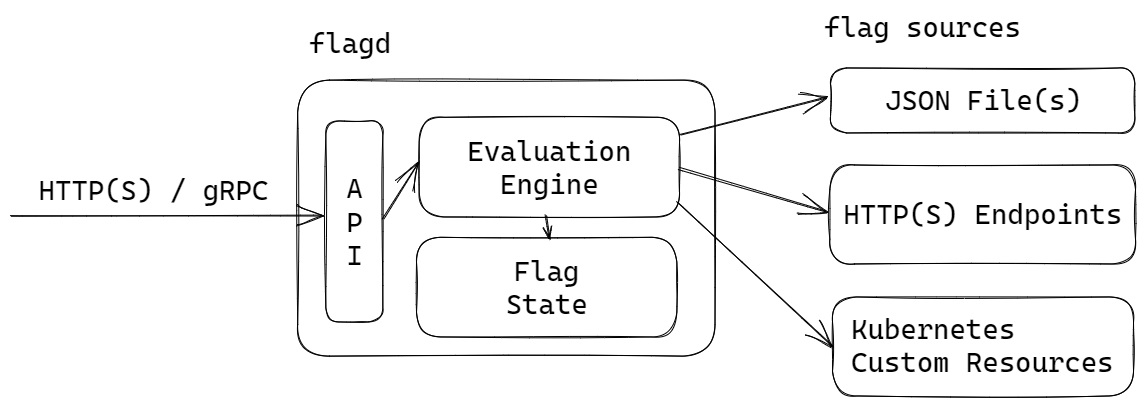
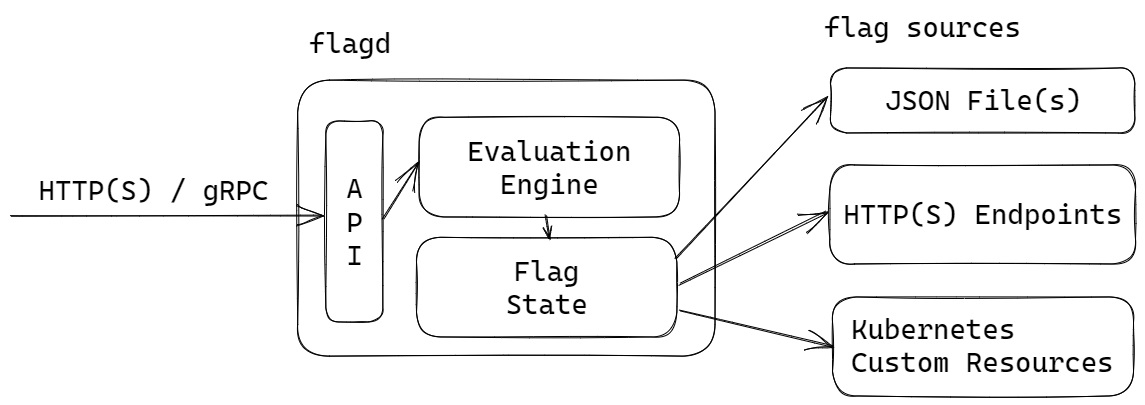
update logical arch diagram and readme

diff --git a/README.md b/README.md
@@ -28,10 +28,9 @@ flagd:
 
 - 🌐 OpenFeature compliant and [speaks your language](docs/usage/flagd_providers.md).
 - 🆕 Easy to [extend to new languages](docs/other_resources/creating_providers.md).
-- 👍 Reads feature flags from multiple sources. `files`, `http(s)`, `gRPC` and `Kubernetes Custom Resources` can be used simultaneously.
 - 🔄 Centralized flag management. Use multiple flag sources and vendors. [Flag values are automatically merged](docs/configuration/flag_configuration_merging.md).
 - 🕒 Feature Flag updates occur in near-realtime (HTTP) or realtime (gRPC)
-- 💪 Contains a [powerful and flexible rule targeting engine](docs/configuration/reusable_targeting_rules.md) and ["bucket-based" fractional evaluation for flag micro-targeting](https://github.com/open-feature/flagd/blob/main/docs/configuration/fractional_evaluation.md).
+- 💪 Contains a [powerful and flexible rule targeting engine](docs/configuration/reusable_targeting_rules.md) and [deterministic percentage-based rollouts](https://github.com/open-feature/flagd/blob/main/docs/configuration/fractional_evaluation.md).
 - 🔦 [Flag statistics and metrics are exposed](https://example.com) and compatible with Prometheus.
 
 ![logical architecture of flagd](docs/images/flagd-logical-architecture.jpg)
@@ -40,7 +39,8 @@ flagd:
 ## ▶ Quick Start
 
 1. flagd can be run as a standalone-binary or container. [Download and install flagd or run it as a container](docs/usage/installation_options.md)
-   Kubernetes-native? flagd can also be run as part of the OpenFeature Kubernetes Operator.
+   
+   Kubernetes-native? flagd can also be run [as part of the Kubernetes Operator](https://github.com/open-feature/open-feature-operator).
 
 2. Start flagd:
 
